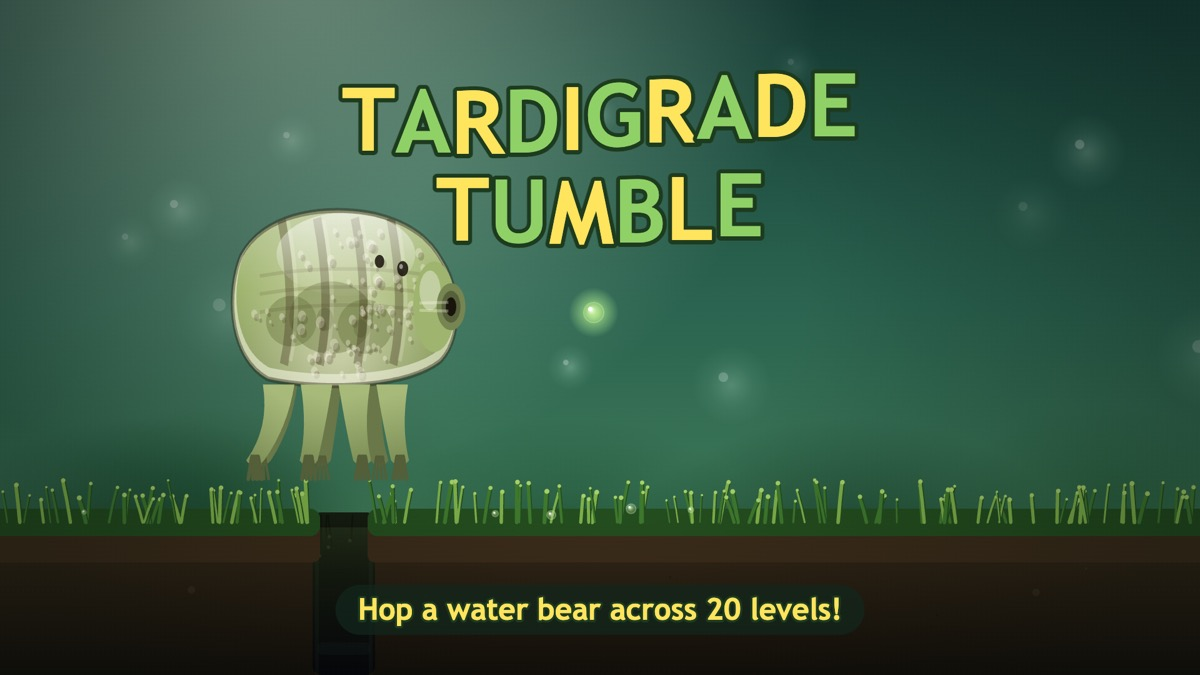
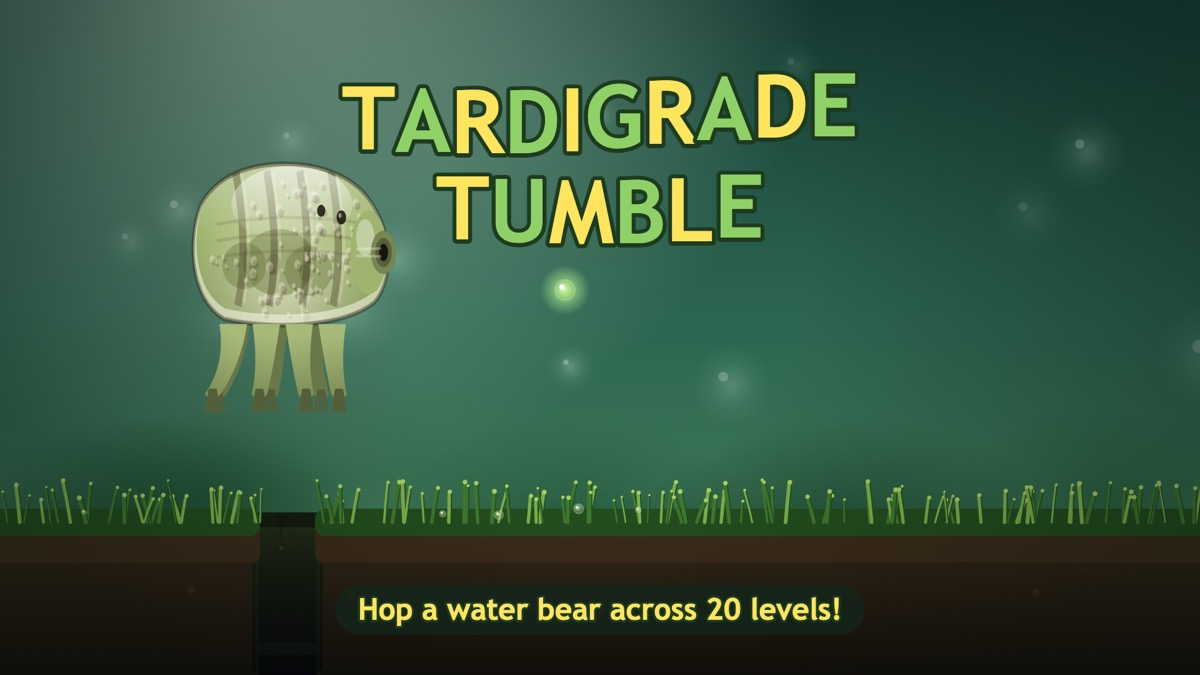
Raise tardigrade higher over the hole in OG thumbnail

diff --git a/index.html b/index.html
@@ -760,13 +760,13 @@ function drawWalkDemo(){            // tardigrade walks across the title moss, h
 }
 function renderOG(){               // link-preview thumbnail (rendered full-bleed via ?og)
   drawBackgroundReal(80); drawSoilReal(0);
-  drawPitReal(250,300);
-  drawMossCapReal({x0:-40,x1:250,deco:OG_DECO[0]},0);
-  drawMossCapReal({x0:300,x1:W+40,deco:OG_DECO[1]},0);
+  drawPitReal(202,258);
+  drawMossCapReal({x0:-40,x1:202,deco:OG_DECO[0]},0);
+  drawMossCapReal({x0:258,x1:W+40,deco:OG_DECO[1]},0);
   vignette(0.32);
-  const sx=475,sy=250; const gg=ctx.createRadialGradient(sx,sy,1,sx,sy,20); gg.addColorStop(0,'rgba(190,255,150,0.8)'); gg.addColorStop(1,'rgba(190,255,150,0)'); ctx.fillStyle=gg; dot(sx,sy,20); drawDroplet(sx,sy,8,[206,240,150]);
-  ctx.save(); ctx.translate(275,GROUND_Y-58); ctx.scale(2.5,2.5);
-  drawTardiReal(0,0,{colorId:'green',base:'#7cc36a',hat:'none',walkPhase:30,grounded:false,vy:-7,squash:-0.25,dead:false,deadFrame:0,won:false,t:18});
+  const sx=452,sy=232; const gg=ctx.createRadialGradient(sx,sy,1,sx,sy,20); gg.addColorStop(0,'rgba(190,255,150,0.8)'); gg.addColorStop(1,'rgba(190,255,150,0)'); ctx.fillStyle=gg; dot(sx,sy,20); drawDroplet(sx,sy,8,[206,240,150]);
+  ctx.save(); ctx.translate(232,GROUND_Y-110); ctx.scale(2.25,2.25);   // raised higher over the hole
+  drawTardiReal(0,0,{colorId:'green',base:'#7cc36a',hat:'none',walkPhase:30,grounded:false,vy:-8,squash:-0.3,dead:false,deadFrame:0,won:false,t:18});
   ctx.restore();
   bouncyTitle('TARDIGRADE',W/2,96,70); bouncyTitle('TUMBLE',W/2,168,70);
   ctx.font='800 24px "Trebuchet MS",Verdana,sans-serif'; const tg='Hop a water bear across 20 levels!', tw=ctx.measureText(tg).width;